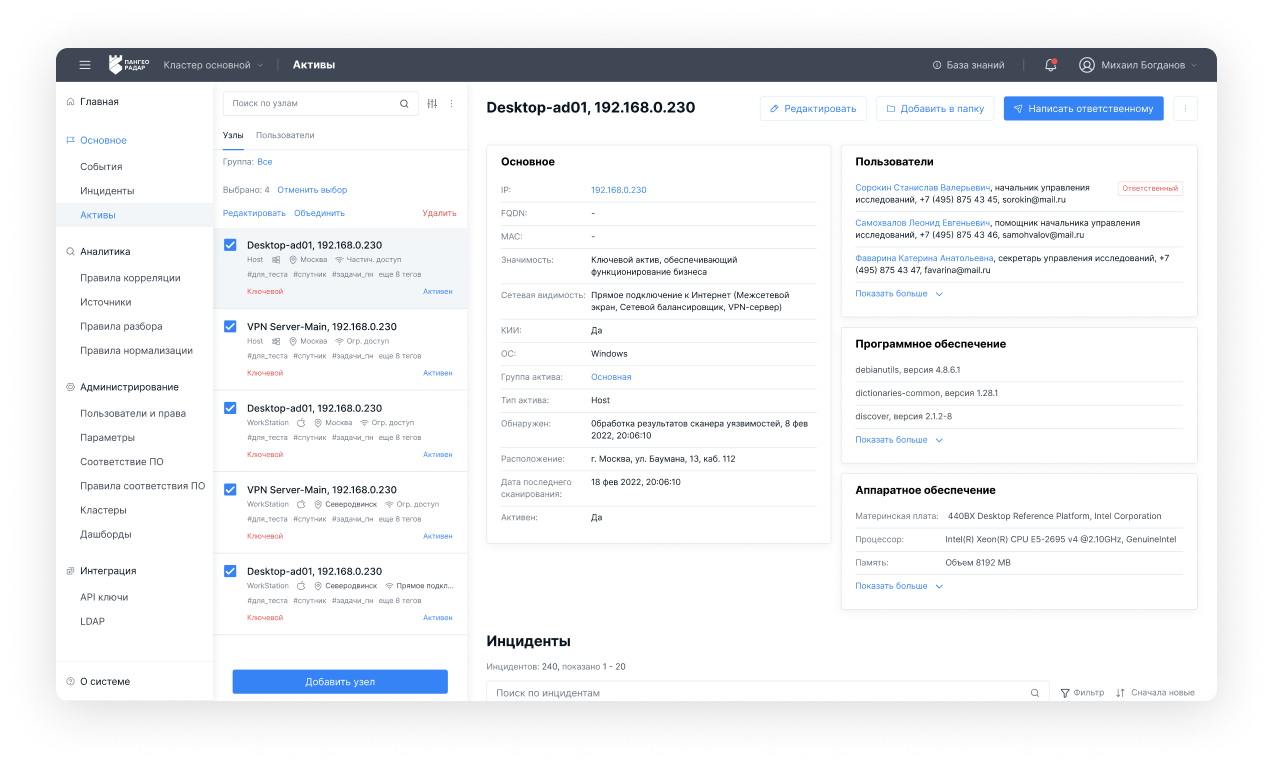
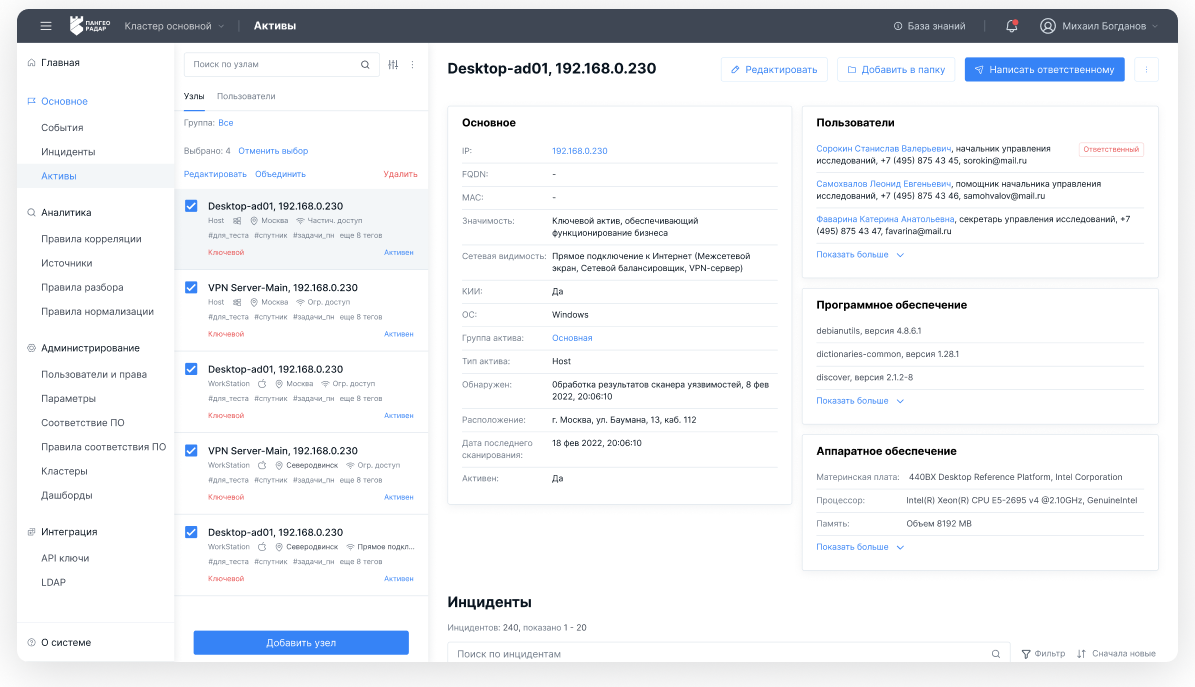
Add Pangeo case updates

diff --git a/pangeo.html b/pangeo.html
@@ -87,33 +87,41 @@
           </ul>
           <figure class="case-figure case-figure--shadow">
             <div class="image-wrapper">
-              <img src="assets/images/pangeo/Desk.png" alt="Проектирование сценариев платформы Пангео Радар на доске" />
+              <img src="assets/pangeo/Desk.png" alt="Проектирование сценариев платформы Пангео Радар на доске" />
             </div>
             <figcaption class="caption">Результаты офисного брейншторма</figcaption>
           </figure>
-          <p class="body">Несмотря на различие обязанностей, на практике эти роли часто совмещались одним человеком. Поэтому мы отказались от идеи жёсткого разделения интерфейсов по ролям и сосредоточились на сценариях работы.</p>
-        </section>
+        <p class="body">Несмотря на различие обязанностей, на практике эти роли часто совмещались одним человеком. Поэтому мы отказались от идеи жёсткого разделения интерфейсов по ролям и сосредоточились на сценариях работы.</p>
+      </section>
 
-        <section class="case-block" id="events">
-          <h2 class="h3">Работа с событиями безопасности</h2>
-          <p class="body">Одной из моих основных задач стало проектирование интерфейсов для работы с событиями безопасности.</p>
+      <section class="case-block">
+        <h2 class="h3">Как работали</h2>
+        <p class="body">Проект длился около 4 месяцев.</p>
+        <p class="body">В команде работали менеджер проекта, аналитик и два дизайнера. На финальном этапе для доработки визуальной части интерфейсов подключился ещё один дизайнер.</p>
+        <p class="body">Одним из важных выводов проекта стало понимание, что в сложных предметных областях нельзя полностью отделять исследование и погружение в предметную область от команды проектирования. На старте мы попробовали собрать знания централизованно через аналитика, но часть контекста терялась, а к некоторым вопросам приходилось возвращаться повторно.</p>
+        <p class="body">В дальнейшем мы стали погружаться в предметную область итерационно всей командой и регулярно сверять решения с заказчиком и пользователями.</p>
+      </section>
+
+      <section class="case-block" id="events">
+        <h2 class="h3">Работа с событиями безопасности</h2>
+        <p class="body">Одной из моих основных задач стало проектирование интерфейсов для работы с событиями безопасности.</p>
           <p class="body">Система ежедневно собирала большое количество информации о действиях пользователей, устройствах, сетевой активности и изменениях внутри инфраструктуры. Пользователям нужно было быстро находить важные события среди большого объёма данных, анализировать их и принимать решения о дальнейших действиях.</p>
           <p class="body">При проектировании особое внимание уделялось структуре данных, фильтрации, поиску и визуальному выделению действительно важных сигналов.</p>
           <figure class="case-figure case-figure--shadow">
             <div class="image-wrapper">
-              <img src="assets/images/pangeo/pangeo-assets.png" alt="Интерфейс раздела активов в платформе Пангео Радар" />
+              <img src="assets/pangeo/pangeo-assets.png" alt="Интерфейс раздела активов в платформе Пангео Радар" />
             </div>
             <figcaption class="caption">Раздел активов</figcaption>
           </figure>
           <figure class="case-figure case-figure--shadow">
             <div class="image-wrapper">
-              <img src="assets/images/pangeo/pangeo-events.png" alt="Интерфейс работы с событиями безопасности в платформе Пангео Радар" />
+              <img src="assets/pangeo/pangeo-events.png" alt="Интерфейс работы с событиями безопасности в платформе Пангео Радар" />
             </div>
             <figcaption class="caption">Работа с событиями безопасности</figcaption>
           </figure>
           <figure class="case-figure case-figure--shadow">
             <div class="image-wrapper">
-              <img src="assets/images/pangeo/pangeo-incidents.png" alt="Интерфейс расследования инцидентов в платформе Пангео Радар" />
+              <img src="assets/pangeo/pangeo-incidents.png" alt="Интерфейс расследования инцидентов в платформе Пангео Радар" />
             </div>
             <figcaption class="caption">Расследование инцидентов</figcaption>
           </figure>
@@ -125,7 +133,7 @@
           <p class="body">Раньше часть настроек требовала написания правил и логических выражений. Это повышало порог входа и делало продукт сложным для менее опытных пользователей. Мы стремились перевести сложную логику в визуальную форму: показать условия, зависимости и последовательность действий так, чтобы специалист мог работать с правилами через интерфейс, а не через код. В этой части мне особенно пригодился инженерный бэкграунд и опыт работы с логическими конструкциями: условиями, группами условий и связками И/ИЛИ.</p>
           <figure class="case-figure case-figure--shadow">
             <div class="image-wrapper">
-              <img src="assets/images/pangeo/pangeo-rules.png" alt="Интерфейс конструктора правил корреляции в платформе Пангео Радар" />
+              <img src="assets/pangeo/pangeo-rules.png" alt="Интерфейс конструктора правил корреляции в платформе Пангео Радар" />
             </div>
             <figcaption class="caption">Конструктор правил корреляции</figcaption>
           </figure>
@@ -144,7 +152,7 @@
           <p class="body">Для меня этот проект стал первым опытом работы со сложной enterprise-системой, где дизайн напрямую зависел от понимания предметной области, логики процессов и особенностей работы пользователей.</p>
           <figure class="case-figure case-figure--shadow">
             <div class="image-wrapper">
-              <img src="assets/images/pangeo/pangeo-components.png" alt="Библиотека компонентов для интерфейсов платформы Пангео Радар" />
+              <img src="assets/pangeo/pangeo-components.png" alt="Библиотека компонентов для интерфейсов платформы Пангео Радар" />
             </div>
             <figcaption class="caption">Библиотека компонентов</figcaption>
           </figure>

diff --git a/styles.css b/styles.css
@@ -721,15 +721,39 @@ figure {
   width: 100%;
 }
 
+.case-block > ul,
+.case-block > ol,
+.section-group ul,
+.section-group ol,
+.content-block ul,
+.content-block ol,
 .section-group > p,
 .content-block,
 .case-figure {
   width: min(680px, 100%);
 }
 
+.case-block > ul,
+.case-block > ol,
 .section-group ul,
-.content-block ul {
+.section-group ol,
+.content-block ul,
+.content-block ol {
   margin: 0;
+  padding-left: var(--space-24);
+}
+
+.case-block li + li,
+.section-group li + li,
+.content-block li + li {
+  margin-top: var(--space-8);
+}
+
+.case-block > p + ul,
+.case-block > p + ol,
+.case-block > ul + p,
+.case-block > ol + p {
+  margin-top: calc(var(--space-16) * -1);
 }
 
 .process-change {
@@ -926,6 +950,7 @@ figure {
 
 .result-list__items {
   margin: 0;
+  padding-left: var(--space-24);
 }
 
 .status-figure {
